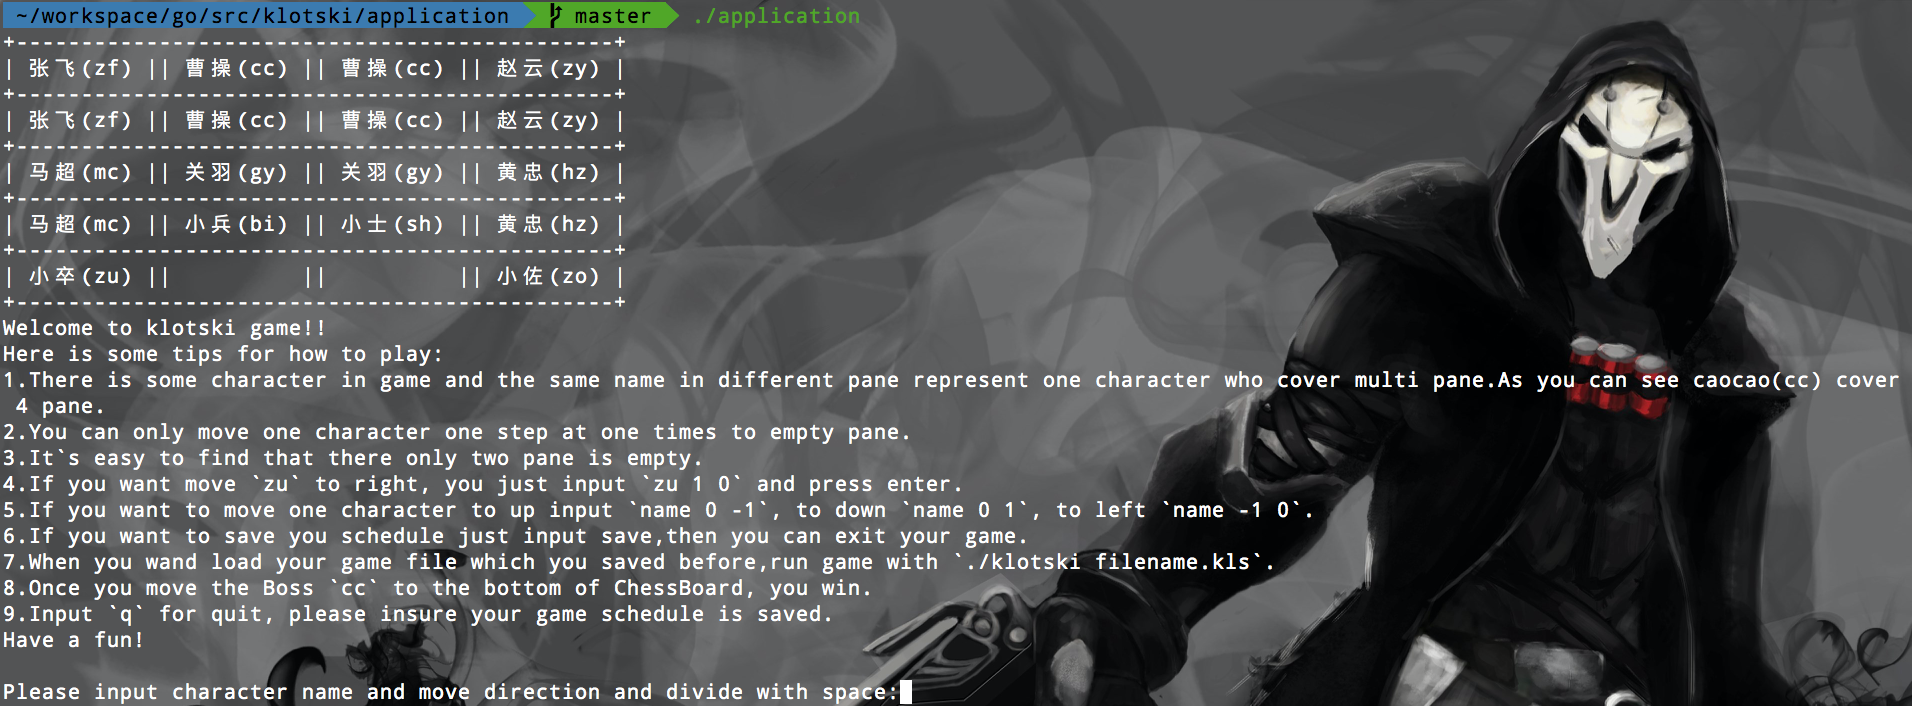
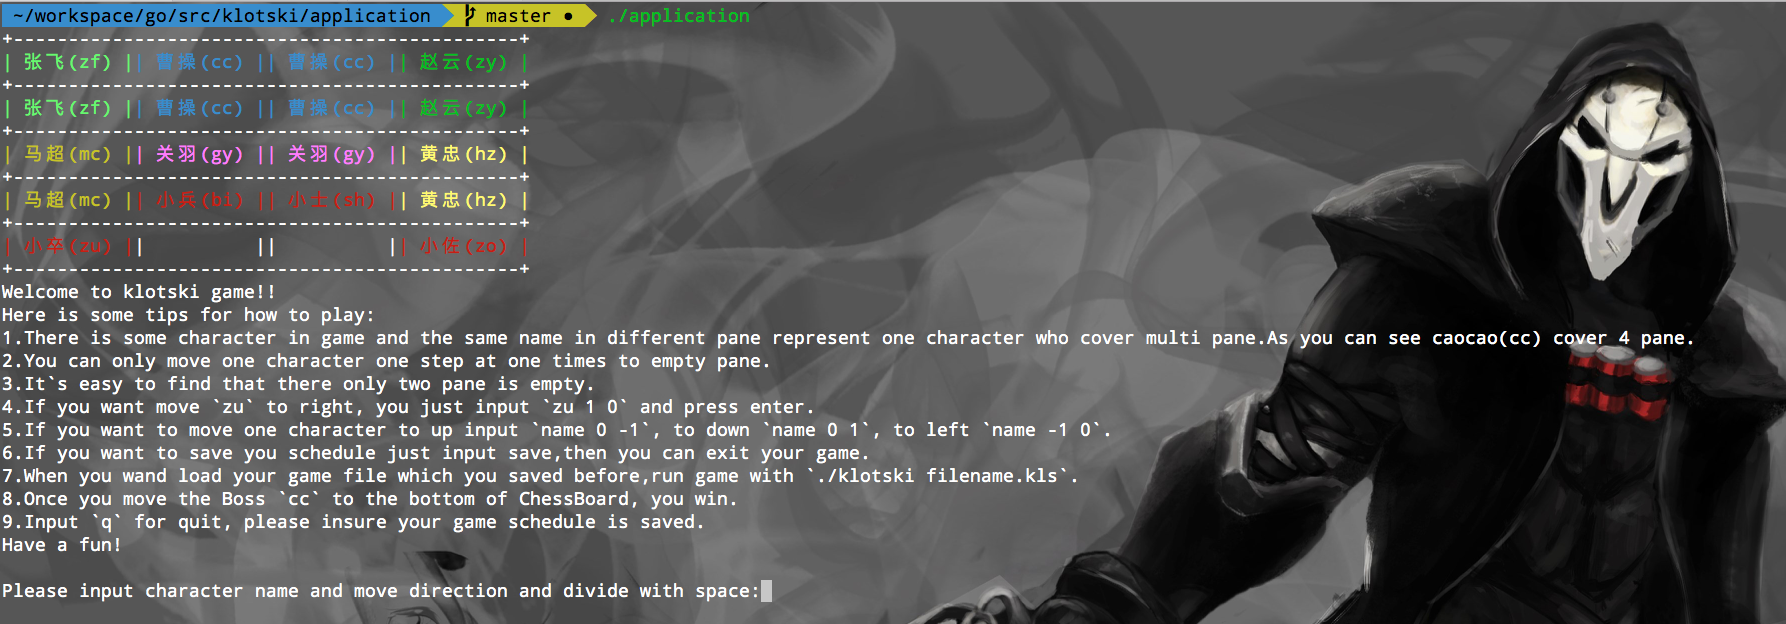
add color lib for visual effect

diff --git a/application/klotski.go b/application/klotski.go
@@ -29,11 +29,16 @@
 
 package main
 
+import (
+	"github.com/fatih/color"
+)
+
 type character struct {
 	Name     string   //
 	Position position //
 	Cover    [][]int  //
 	Control  string   // short name
+	Color    *color.Color
 }
 
 type position struct {
@@ -92,6 +97,7 @@ func initCharacter() {
 		},
 		Cover:   cover22,
 		Control: "cc",
+		Color:   color.New(color.FgBlue),
 	}
 	all = append(all, &caoCao)
 
@@ -103,6 +109,7 @@ func initCharacter() {
 		},
 		Cover:   cover12,
 		Control: "zf",
+		Color:   color.New(color.FgHiGreen),
 	}
 	all = append(all, &zhangFei)
 
@@ -114,6 +121,7 @@ func initCharacter() {
 		},
 		Cover:   cover12,
 		Control: "zy",
+		Color:   color.New(color.FgGreen),
 	}
 	all = append(all, &zhaoYun)
 
@@ -125,6 +133,7 @@ func initCharacter() {
 		},
 		Cover:   cover12,
 		Control: "hz",
+		Color:   color.New(color.FgHiYellow),
 	}
 	all = append(all, &huangZhong)
 
@@ -136,6 +145,7 @@ func initCharacter() {
 		},
 		Cover:   cover12,
 		Control: "mc",
+		Color:   color.New(color.FgYellow),
 	}
 	all = append(all, &maChao)
 
@@ -147,6 +157,7 @@ func initCharacter() {
 		},
 		Cover:   cover21,
 		Control: "gy",
+		Color:   color.New(color.FgHiMagenta),
 	}
 	all = append(all, &guanYu)
 
@@ -158,6 +169,7 @@ func initCharacter() {
 		},
 		Cover:   cover11,
 		Control: "zu",
+		Color:   color.New(color.FgRed),
 	}
 	all = append(all, &zu)
 
@@ -169,6 +181,7 @@ func initCharacter() {
 		},
 		Cover:   cover11,
 		Control: "bi",
+		Color:   color.New(color.FgRed),
 	}
 	all = append(all, &bing)
 
@@ -180,6 +193,7 @@ func initCharacter() {
 		},
 		Cover:   cover11,
 		Control: "sh",
+		Color:   color.New(color.FgRed),
 	}
 	all = append(all, &shi)
 
@@ -191,6 +205,7 @@ func initCharacter() {
 		},
 		Cover:   cover11,
 		Control: "zo",
+		Color:   color.New(color.FgRed),
 	}
 	all = append(all, &zuo)
 }

diff --git a/application/main.go b/application/main.go
@@ -79,7 +79,7 @@ func printBoard() {
 			if c.Control == "" {
 				fmt.Printf("|          |")
 			} else {
-				fmt.Printf("| %s(%s) |", c.Name, c.Control)
+				c.Color.Printf("| %s(%s) |", c.Name, c.Control)
 			}
 		}
 

diff --git a/README.md b/README.md
@@ -7,6 +7,7 @@ cd to `application`
 and build ：
 
 ```shell
+go get github.com/fatih/color
 go build
 ```
 
